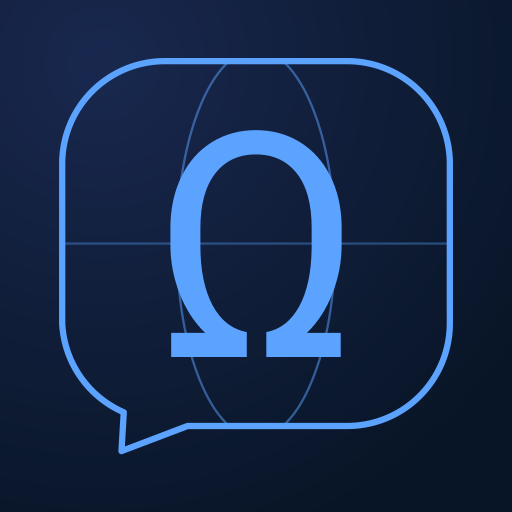
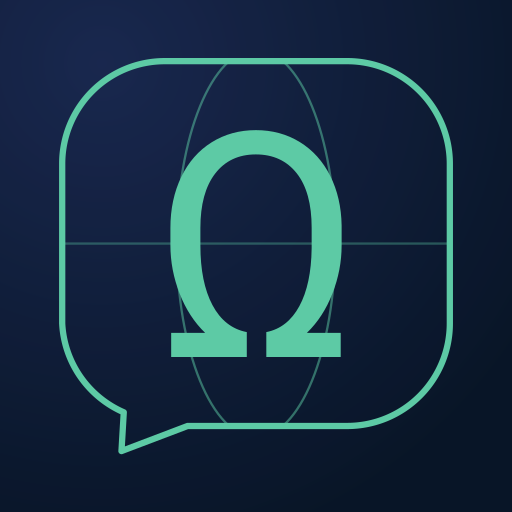
Иконка Tejar: бирюзовый вместо синего
Знак перекрашен в #5DCAA5 (цвет «подключено» из клиента AxiOm), фон прежний.
На 32–48 px синий Tejar читался как ещё одна иконка AxiOm; бирюзовый различает
приложения с первого взгляда, оставляя их одной семьёй.

Claude-Session: https://claude.ai/code/session_01CjjNbGPKtKg3gJdKxLcng3

diff --git a/branding/make_icons.py b/branding/make_icons.py
@@ -5,8 +5,9 @@
     python3 branding/make_icons.py        # run from the repository root
 
 Design: AxiOm's dark globe background and Omega, framed by a speech bubble (Tejar is the
-messenger of the AxiOm family). Colours follow the AxiOm client: #5BA3FF on a #1a1d3e -> #06070f
-radial gradient.
+messenger of the AxiOm family). The background is the AxiOm client's #1a1d3e -> #06070f radial
+gradient; the mark is teal #5DCAA5, the client's "connected" colour, so Tejar and AxiOm (blue
+#5BA3FF) never look alike on a home screen.
 
 Outputs (overwritten):
   - adaptive icon layers (API 26+): mipmap-*/tejar_icon_{background,foreground,monochrome}.png
@@ -25,7 +26,7 @@ ROOT = os.path.dirname(os.path.dirname(os.path.abspath(__file__)))
 RES = os.path.join(ROOT, "TMessagesProj", "src", "main", "res")
 RES_SA = os.path.join(ROOT, "TMessagesProj_AppStandalone", "src", "main", "res")
 
-ACCENT = "#5BA3FF"
+ACCENT = "#5DCAA5"  # AxiOm "connected" teal; AxiOm itself uses #5BA3FF
 
 OMEGA = ("M265.03 333.65Q283.64 330.01 294.02 310.87Q304.4 291.73 304.8 260.18V242.11Q304.8 210.97 291.73 194.39"
          "Q278.65 177.81 255.87 177.81Q233.08 177.81 220.14 194.66Q207.2 211.51 207.2 242.38V257.62Q207.2 289.97 "
